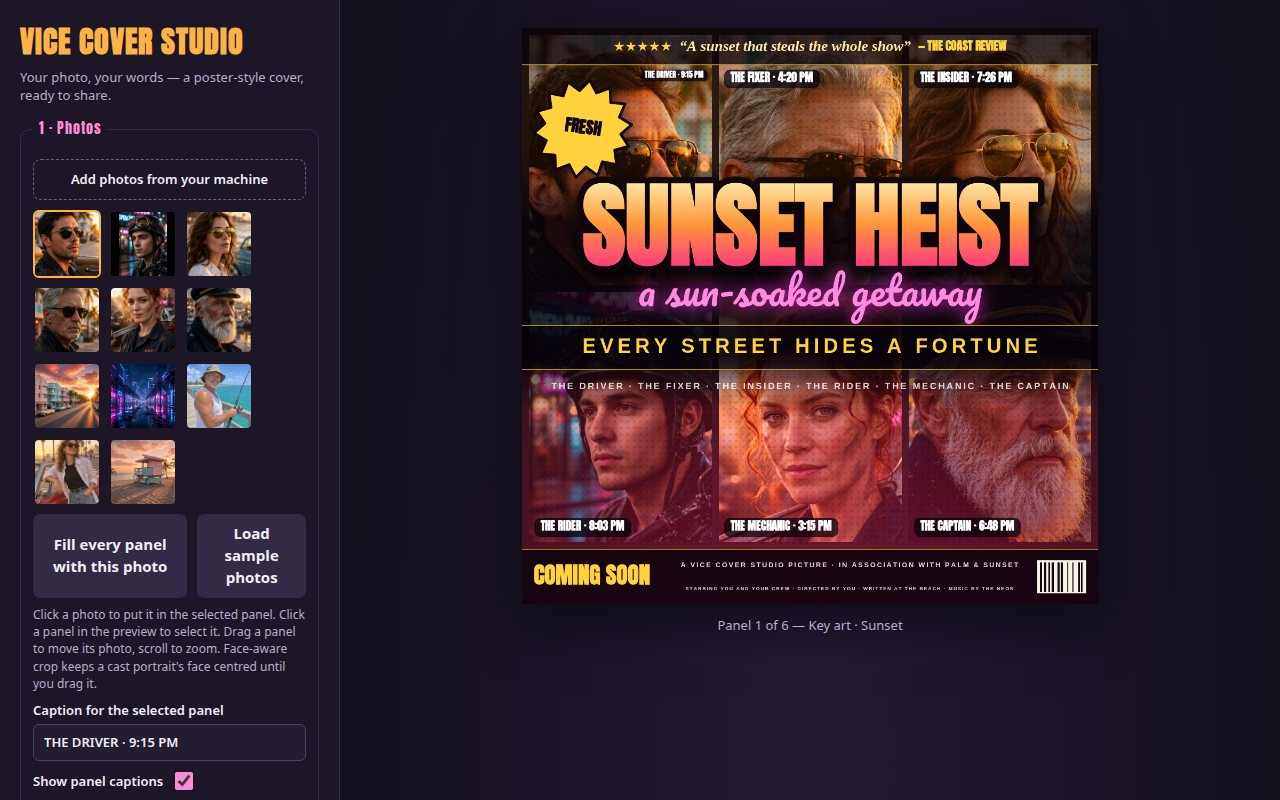
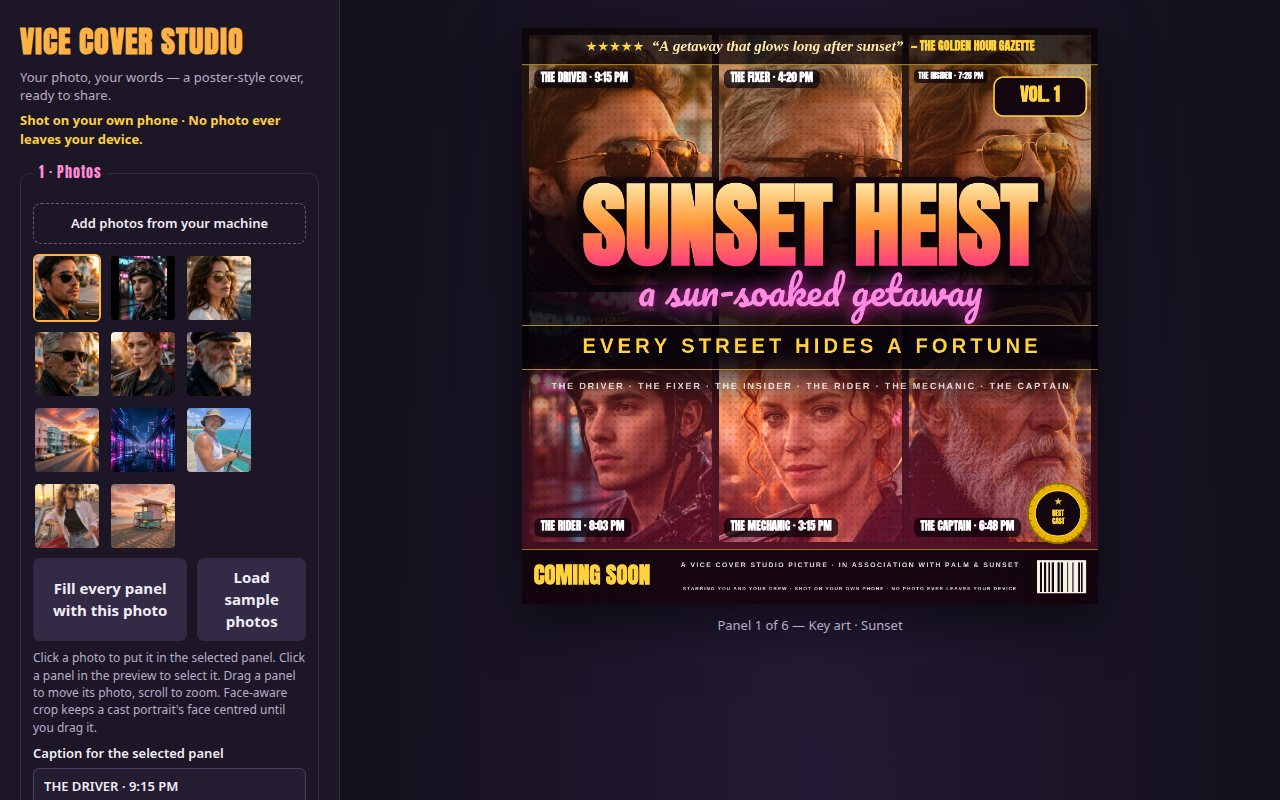
Round 6: one sunset grade, gold BEST CAST seal, VOL. 1 ticket, starring-you promise
- Per-panel warm tint + sepia-warmed sunset/gold filters: every panel
  shares one golden-hour temperature, whatever its source photo was;
  global wash foot lightened so rows no longer split warm/magenta.
- Gold BEST CAST seal stamped on the poster's foot (toggleable, new
  Gold seal checkbox in the editor); panel labels steer clear of it.
- VOL. 1 ticket is now the default badge (badge text '1').
- Stronger five-star quote strip: 'A getaway that glows long after
  sunset' — The Golden Hour Gazette.
- Footer and editor header now carry the starring-you promise:
  'Starring you and your crew · Shot on your own phone · No photo
  ever leaves your device'.
- All four screenshots re-rendered from the live app and read back;
  no console or page errors.

diff --git a/app/src/cover.js b/app/src/cover.js
@@ -198,7 +198,7 @@ function gradeWash(ctx, W, H, grade) {
   let top, bottom;
   if (grade === 'sunset') {
     top = ['rgba(255,140,40,0.17)', 'rgba(255,80,30,0.08)'];
-    bottom = ['rgba(255,60,120,0.00)', 'rgba(255,30,110,0.44)'];
+    bottom = ['rgba(255,60,120,0.00)', 'rgba(255,30,110,0.34)'];
   } else if (grade === 'neon') {
     top = ['rgba(40,200,255,0.19)', 'rgba(140,60,255,0.11)'];
     bottom = ['rgba(255,0,160,0.00)', 'rgba(255,0,160,0.42)'];
@@ -207,7 +207,7 @@ function gradeWash(ctx, W, H, grade) {
     bottom = ['rgba(0,0,0,0.00)', 'rgba(0,0,0,0.34)'];
   } else if (grade === 'gold') {
     top = ['rgba(255,190,60,0.20)', 'rgba(255,140,40,0.08)'];
-    bottom = ['rgba(255,120,0,0.00)', 'rgba(190,70,0,0.42)'];
+    bottom = ['rgba(255,120,0,0.00)', 'rgba(190,70,0,0.32)'];
   } else if (grade === 'vice') {
     top = ['rgba(0,220,200,0.18)', 'rgba(0,120,180,0.10)'];
     bottom = ['rgba(255,0,150,0.00)', 'rgba(255,0,150,0.42)'];
@@ -222,6 +222,39 @@ function gradeWash(ctx, W, H, grade) {
   g2.addColorStop(1, bottom[1]);
   ctx.fillStyle = g2;
   ctx.fillRect(0, 0, W, H);
+}
+
+// A warm wash painted inside ONE panel, mapped to that panel's own rect:
+// every panel gets the identical tint, so panels that start from different
+// source photos (a pink portrait, a neutral one) end up sharing one
+// golden-hour temperature. The cover-wide wash alone cannot do this — it is
+// a vertical gradient, so the top row reads warm and the bottom row reads
+// magenta. The tint is deliberately light: it unifies, it does not repaint.
+function panelTint(ctx, rect, grade) {
+  if (grade === 'original' || grade === 'noir') return;
+  let top, bottom;
+  if (grade === 'sunset' || grade === 'gold') {
+    top = 'rgba(255,150,60,0.14)';
+    bottom = 'rgba(255,40,120,0.10)';
+  } else if (grade === 'neon') {
+    top = 'rgba(40,200,255,0.10)';
+    bottom = 'rgba(255,0,160,0.07)';
+  } else if (grade === 'vice') {
+    top = 'rgba(0,220,200,0.10)';
+    bottom = 'rgba(255,0,150,0.07)';
+  } else {
+    return;
+  }
+  ctx.save();
+  ctx.beginPath();
+  ctx.rect(rect.x, rect.y, rect.w, rect.h);
+  ctx.clip();
+  const g = ctx.createLinearGradient(0, rect.y, 0, rect.y + rect.h);
+  g.addColorStop(0, top);
+  g.addColorStop(1, bottom);
+  ctx.fillStyle = g;
+  ctx.fillRect(rect.x, rect.y, rect.w, rect.h);
+  ctx.restore();
 }
 
 // Splits a caption into lines that fit maxWidth at the given font string.
@@ -610,6 +643,64 @@ export function drawBadge(ctx, W, H, state) {
   else drawStarburst(ctx, W, H, state);
 }
 
+// The gold seal's geometry: a circle stamped on the foot of the last
+// panel, above the production footer. Pure geometry, so the panel labels
+// can treat it as an obstacle before anything is drawn.
+function sealRectFor(W, H, state) {
+  if (state.showSeal === false) return null;
+  const fH = footerHeight(H, state);
+  const min = Math.min(W, H);
+  const r = Math.round(min * 0.052);
+  const m = Math.round(min * 0.018);
+  const cx = W - r - m;
+  const cy = H - fH - r - Math.round(m * 0.6);
+  return { x0: cx - r - 4, y0: cy - r - 4, x1: cx + r + 4, y1: cy + r + 4, cx, cy, r };
+}
+
+// A circular gold seal — BEST CAST — stamped on the poster like a film
+// poster's award seal. Gold ring with a serrated rim, dark inner disc,
+// a star and the words BEST CAST. Drawn after the title block and the
+// footer, so it reads as a sticker on top of the poster, never hidden
+// behind them.
+function drawGoldSeal(ctx, W, H, state) {
+  const geo = sealRectFor(W, H, state);
+  if (!geo) return;
+  const { cx, cy, r } = geo;
+  ctx.save();
+  ctx.beginPath();
+  ctx.arc(cx, cy, r, 0, Math.PI * 2);
+  ctx.fillStyle = '#e8b400';
+  ctx.fill();
+  ctx.lineWidth = Math.max(2, Math.round(r * 0.05));
+  ctx.strokeStyle = '#8a6d00';
+  ctx.stroke();
+  ctx.beginPath();
+  for (let i = 0; i < 24; i++) {
+    const a = (i / 24) * Math.PI * 2;
+    ctx.moveTo(cx + Math.cos(a) * r, cy + Math.sin(a) * r);
+    ctx.lineTo(cx + Math.cos(a) * (r * 0.9), cy + Math.sin(a) * (r * 0.9));
+  }
+  ctx.strokeStyle = 'rgba(138,109,0,0.7)';
+  ctx.lineWidth = Math.max(1, Math.round(r * 0.03));
+  ctx.stroke();
+  ctx.beginPath();
+  ctx.arc(cx, cy, r * 0.76, 0, Math.PI * 2);
+  ctx.fillStyle = '#14060f';
+  ctx.fill();
+  ctx.lineWidth = Math.max(1, Math.round(r * 0.04));
+  ctx.strokeStyle = '#ffd23e';
+  ctx.stroke();
+  ctx.fillStyle = '#ffd23e';
+  ctx.textAlign = 'center';
+  ctx.textBaseline = 'middle';
+  ctx.font = `${Math.round(r * 0.34)}px sans-serif`;
+  ctx.fillText('★', cx, cy - r * 0.38);
+  ctx.font = `900 ${Math.round(r * 0.24)}px Anton, sans-serif`;
+  ctx.fillText('BEST', cx, cy + r * 0.02);
+  ctx.fillText('CAST', cx, cy + r * 0.3);
+  ctx.restore();
+}
+
 // Default story label for each bundled sample photo: a character or a place
 // plus a time, the way the top covers caption every panel. Uploaded photos
 // fall back to their file name, upper-cased; the editor lets the user edit
@@ -800,7 +891,7 @@ export function drawFooter(ctx, W, H, state) {
 // beats a missing one. A half-hidden label is worse than none, so nothing
 // is drawn when no spot fits at any size.
 function drawPanelLabels(ctx, rects, panels, opts) {
-  const obstacles = [opts?.quoteZone, opts?.badgeRect].filter(Boolean);
+  const obstacles = [opts?.quoteZone, opts?.badgeRect, opts?.sealRect].filter(Boolean);
   const title = opts?.titleZone || null;
   const overlaps = (a, b) => a.x0 < b.x1 && a.x1 > b.x0 && a.y0 < b.y1 && a.y1 > b.y0;
   rects.forEach((rect, i) => {
@@ -886,7 +977,7 @@ export function halftone(ctx, W, H) {
 }
 
 // Renders the whole cover. `state` carries layout, grade, size, caption,
-// subtitle, tagline, badgeText, badgeStyle, showBadge, halftone,
+// subtitle, tagline, badgeText, badgeStyle, showBadge, showSeal, halftone,
 // showPanelLabels, captionPos, captionScale, outline, textStyle, quote,
 // quoteSource, showQuote, footer, footer2, showFooter, faceAware, and
 // panels: an array of { photo, zoom, ox, oy, caption } where photo is an
@@ -910,12 +1001,16 @@ export function renderCover(canvas, state) {
   rects.forEach((rect, i) => {
     const panel = panels[i] || {};
     if (panel.photo) {
-      // A heavy, unified grade: saturate + contrast on the photo itself,
-      // on top of the wash painted later, so the panels feel like one poster.
+      // A heavy, unified grade: the sunset and gold grades warm every
+      // photo with the same sepia shift (so a pink neon portrait and a
+      // neutral one end up at the same golden-hour temperature), plus
+      // saturate + contrast on the photo itself, on top of the wash
+      // painted later, so the panels feel like one poster.
       if (noir) ctx.filter = 'grayscale(1) contrast(1.18) brightness(1.04)';
-      else if (state.grade === 'gold') ctx.filter = 'saturate(1.35) contrast(1.1) brightness(1.03)';
+      else if (state.grade === 'gold') ctx.filter = 'sepia(0.18) saturate(1.35) contrast(1.1) brightness(1.03)';
       else if (state.grade === 'vice') ctx.filter = 'saturate(1.3) contrast(1.08)';
-      else if (state.grade === 'sunset' || state.grade === 'neon') ctx.filter = 'saturate(1.28) contrast(1.07)';
+      else if (state.grade === 'sunset') ctx.filter = 'sepia(0.22) saturate(1.35) contrast(1.08)';
+      else if (state.grade === 'neon') ctx.filter = 'saturate(1.28) contrast(1.07)';
       // Face-aware crop: a portrait with a known face anchor, not yet
       // dragged by hand, is snapped so its face sits in the panel's
       // centre. A drag (any pan) hands the framing back to the user.
@@ -927,6 +1022,9 @@ export function renderCover(canvas, state) {
       }
       drawPhotoInto(ctx, panel.photo, rect, zoom, ox, oy);
       ctx.filter = 'none';
+      // One identical warm tint in every panel: the sunset grade that
+      // unifies the cast, whatever each source photo's white balance was.
+      panelTint(ctx, rect, state.grade || 'sunset');
     } else {
       const g = ctx.createLinearGradient(rect.x, rect.y, rect.x + rect.w, rect.y + rect.h);
       g.addColorStop(0, '#3a2350');
@@ -956,9 +1054,11 @@ export function renderCover(canvas, state) {
     ? { x0: 0, y0: titleGeo.topY - titleGeo.pad, x1: W, y1: titleGeo.topY + titleGeo.blockH + titleGeo.pad }
     : { x0: 0, y0: titleGeo.topY - titleGeo.pad, x1: W, y1: H };
   if (state.showPanelLabels !== false) {
-    drawPanelLabels(ctx, rects, panels, { badgeRect: badgeRectFor(W, H, state), titleZone, quoteZone });
+    drawPanelLabels(ctx, rects, panels, { badgeRect: badgeRectFor(W, H, state), sealRect: sealRectFor(W, H, state), titleZone, quoteZone });
   }
   drawTitleBlock(ctx, W, H, state);
   drawFooter(ctx, W, H, state);
   if (state.showBadge) drawBadge(ctx, W, H, state);
+  // The gold seal goes on last, on top of everything, like a sticker.
+  drawGoldSeal(ctx, W, H, state);
 }

diff --git a/app/index.html b/app/index.html
@@ -12,6 +12,7 @@
     <header>
       <h1>VICE COVER STUDIO</h1>
       <p>Your photo, your words — a poster-style cover, ready to share.</p>
+      <p class="privacy">Shot on your own phone · No photo ever leaves your device.</p>
     </header>
 
     <fieldset>
@@ -60,18 +61,21 @@
       <div class="row">
         <label>Badge style
           <select id="badgeStyle">
-            <option value="starburst" selected>Starburst badge</option>
+            <option value="starburst">Starburst badge</option>
             <option value="wanted">WANTED poster</option>
             <option value="est">EST. seal</option>
-            <option value="vol">VOL. ticket</option>
+            <option value="vol" selected>VOL. ticket</option>
             <option value="ribbon">Collector's ribbon</option>
           </select>
         </label>
         <label>Badge text / Vol. no.
-          <input id="badgeText" type="text" maxlength="8" value="Fresh">
+          <input id="badgeText" type="text" maxlength="8" value="1">
         </label>
         <label class="check">Show badge
           <input id="showBadge" type="checkbox" checked>
+        </label>
+        <label class="check">Gold seal — BEST CAST
+          <input id="showSeal" type="checkbox" checked>
         </label>
         <label class="check">Halftone dots
           <input id="halftone" type="checkbox" checked>
@@ -106,10 +110,10 @@
     <fieldset>
       <legend>5 · Quote &amp; footer</legend>
       <label>Review quote
-        <input id="quote" type="text" maxlength="80" value="A sunset that steals the whole show">
+        <input id="quote" type="text" maxlength="80" value="A getaway that glows long after sunset">
       </label>
       <label>Quote source
-        <input id="quoteSource" type="text" maxlength="40" value="The Coast Review">
+        <input id="quoteSource" type="text" maxlength="40" value="The Golden Hour Gazette">
       </label>
       <label class="check">Show quote strip
         <input id="showQuote" type="checkbox" checked>
@@ -118,12 +122,12 @@
         <input id="footer" type="text" maxlength="100" value="A Vice Cover Studio picture · In association with Palm & Sunset">
       </label>
       <label>Production footer — line 2
-        <input id="footer2" type="text" maxlength="100" value="Starring you and your crew · Directed by you · Written at the beach · Music by the neon">
+        <input id="footer2" type="text" maxlength="100" value="Starring you and your crew · Shot on your own phone · No photo ever leaves your device">
       </label>
       <label class="check">Show footer &amp; barcode
         <input id="showFooter" type="checkbox" checked>
       </label>
-      <p class="hint">The quote strip opens the cover with five stars and a press line; the footer closes it with two lines of film credits, a big COMING SOON and a barcode. Both are drawn on the cover itself, so they appear in every export.</p>
+      <p class="hint">The quote strip opens the cover with five stars and a press line; the footer closes it with two lines of film credits, a big COMING SOON, a gold BEST CAST seal and a barcode. All of them are drawn on the cover itself, so they appear in every export.</p>
     </fieldset>
 
     <fieldset>

diff --git a/app/src/main.js b/app/src/main.js
@@ -20,20 +20,24 @@ export const state = {
   caption: 'Sunset Heist',
   subtitle: 'a sun-soaked getaway',
   tagline: 'Every street hides a fortune',
-  badgeText: 'Fresh',
-  badgeStyle: 'starburst',
+  badgeText: '1',
+  badgeStyle: 'vol',
   showBadge: true,
+  // A gold BEST CAST seal is stamped on the poster's foot by default, the
+  // way the top covers carry a gold seal beside their credits — next to
+  // the VOL. 1 ticket, it is the poster's award mark.
+  showSeal: true,
   showPanelLabels: true,
   halftone: true,
   captionPos: 'center',
   captionScale: 1,
   outline: 0.07,
   textStyle: 'sunset',
-  quote: 'A sunset that steals the whole show',
-  quoteSource: 'The Coast Review',
+  quote: 'A getaway that glows long after sunset',
+  quoteSource: 'The Golden Hour Gazette',
   showQuote: true,
   footer: 'A Vice Cover Studio picture · In association with Palm & Sunset',
-  footer2: 'Starring you and your crew · Directed by you · Written at the beach · Music by the neon',
+  footer2: 'Starring you and your crew · Shot on your own phone · No photo ever leaves your device',
   showFooter: true,
   // Face-aware crop is on by default: a bundled cast portrait keeps its
   // face centred in its panel until the user drags it by hand.
@@ -212,6 +216,10 @@ document.getElementById('panelCaption').addEventListener('input', (e) => {
 });
 document.getElementById('showBadge').addEventListener('change', (e) => {
   state.showBadge = e.target.checked;
+  redraw();
+});
+document.getElementById('showSeal').addEventListener('change', (e) => {
+  state.showSeal = e.target.checked;
   redraw();
 });
 document.getElementById('halftone').addEventListener('change', (e) => {
@@ -407,6 +415,7 @@ window.__vice = {
   setFooter: (text) => { state.footer = text; const el = document.getElementById('footer'); if (el) el.value = text; redraw(); },
   setFooter2: (text) => { state.footer2 = text; const el = document.getElementById('footer2'); if (el) el.value = text; redraw(); },
   setShowFooter: (on) => { state.showFooter = !!on; const el = document.getElementById('showFooter'); if (el) el.checked = !!on; redraw(); },
+  setShowSeal: (on) => { state.showSeal = !!on; const el = document.getElementById('showSeal'); if (el) el.checked = !!on; redraw(); },
   setCaptionPos: (pos) => { state.captionPos = pos; const el = document.getElementById('captionPos'); if (el) el.value = pos; redraw(); },
 };
 

diff --git a/app/style.css b/app/style.css
@@ -18,6 +18,7 @@ html, body { margin: 0; min-height: 100%; background: #14101c; color: #f2eef7; f
 .controls { width: 340px; flex: 0 0 340px; padding: 20px 20px 32px; background: #1c1626; border-right: 1px solid #332a45; box-sizing: border-box; overflow-y: auto; }
 .controls header h1 { margin: 0 0 4px; font-family: Anton, 'Arial Narrow', sans-serif; font-size: 30px; letter-spacing: 1px; color: #ffb347; }
 .controls header p { margin: 0 0 6px; color: #b9aec9; font-size: 13px; }
+.controls header p.privacy { color: #ffd23e; font-weight: 700; }
 fieldset { border: 1px solid #332a45; border-radius: 10px; padding: 12px; margin: 14px 0 0; }
 legend { font-family: Anton, 'Arial Narrow', sans-serif; font-size: 14px; letter-spacing: 1px; color: #ff8ad8; padding: 0 6px; }
 label { display: flex; flex-direction: column; gap: 5px; font-weight: 600; font-size: 13px; margin-top: 8px; }

diff --git a/main.ts b/main.ts
@@ -2,7 +2,9 @@
 // six colour grades, face-aware portrait crops, bold Anton captioning,
 // a review strip, cast billing and a COMING SOON footer, three export
 // sizes (1080x1080, 1080x1350, 1920x1080). Built by the recorded agent
-// session for this entry.
+// session for this entry. Round 6: one unified sunset tint per panel, a
+// gold BEST CAST seal, a VOL. 1 ticket by default, and the starring-you
+// promise ("Shot on your own phone · No photo ever leaves your device").
 // A working gta6-cover-art-01 entry (Node 22, standard library only): the app is this directory's app/ folder, plain
 // static files a desktop browser loads offline (app/index.html and its ES modules, no library and no network
 // request), and the program hands it in. It copies app/ and screenshots/ from beside this file to /output and writes

diff --git a/serve.ts b/serve.ts
@@ -4,6 +4,8 @@
 // does nothing clever: this is a development convenience, not a web server for the internet.
 // Screenshots come from the app's own ?shot= scenes (see shots.json for the exact queries):
 // serve on a port, then screenshot each scene and export it with the app's exportPNG.
+// Round 6: the shot scenes now carry the VOL. 1 ticket, the gold seal and the
+// starring-you footer by default; the server itself is unchanged.
 import { createReadStream, statSync } from 'node:fs';
 import { createServer } from 'node:http';
 import { extname, join, normalize, resolve, sep } from 'node:path';

diff --git a/vendor/makefun-app.ts b/vendor/makefun-app.ts
@@ -2,6 +2,7 @@
 // game/ read as app/): one file, the Node standard library only, erasable
 // TypeScript, so it runs as-is under `node main.ts` with no flags, no build and no install. Copy it to
 // vendor/makefun-app.ts in your repository (a copy anywhere else counts as lines you wrote) and import it:
+// Round 6 note: this vendored file is unchanged — it is re-affirmed here in the recorded session.
 //
 //   import { buildDossier } from './vendor/makefun-app.ts';
 //   writeFileSync('/output/dossier.json', buildDossier('/output', {

diff --git a/app/src/shots.js b/app/src/shots.js
@@ -43,6 +43,8 @@ export async function runShot(shot, query) {
   if (halftone !== null) vice.setHalftone(halftone !== '0');
   const showBadge = query.get('showBadge');
   if (showBadge !== null) { vice.state.showBadge = showBadge !== '0'; }
+  const showSeal = query.get('showSeal');
+  if (showSeal !== null) vice.setShowSeal(showSeal !== '0');
   const pos = query.get('captionPos');
   if (pos) { vice.setCaptionPos(pos); }
   const style = query.get('textStyle');

diff --git a/README.md b/README.md
@@ -4,7 +4,7 @@
 [![rank](https://make.fun/badge/gta6-cover-art-01/sastrokucrit-creator/gta6-cover-art-01/rank.svg)](https://make.fun/bounty/gta6-cover-art-01/leaderboard?utm_source=github&utm_medium=readme&utm_campaign=gta6-cover-art-01)
 [![reward](https://make.fun/badge/gta6-cover-art-01/sastrokucrit-creator/gta6-cover-art-01/reward.svg)](https://make.fun/bounty/gta6-cover-art-01?utm_source=github&utm_medium=readme&utm_campaign=gta6-cover-art-01)
 
-Vice Cover Studio turns your own photo and a caption into a GTA 6-style poster cover. It is a fully offline static web app: choose one of seven collage layouts, load photos from your machine, crop and position each panel, write a big gradient title with a script subtitle, tagline and starburst badge, pick one of six colour grades (with an optional halftone finish), and export the result as a PNG ready to post.
+Vice Cover Studio turns your own photo and a caption into a GTA 6-style poster cover. It is a fully offline static web app: choose one of seven collage layouts, load photos from your machine, crop and position each panel, write a big gradient title with a script subtitle, tagline and VOL. 1 ticket, pick one of six colour grades (with an optional halftone finish), and export the result as a PNG ready to post.
 
 ## What it does
 
@@ -12,9 +12,11 @@ Vice Cover Studio turns your own photo and a caption into a GTA 6-style poster c
 - Your photos, cropped and positioned per panel, one photo or several
 - Face-aware crop: a cast portrait keeps its face centred in its panel until you drag it by hand
 - A title-block editor: title, script subtitle, tagline bar, badge text and badge on/off, fill, size and outline
-- A five-star review strip, a cast billing line, and a production footer with two credit lines, COMING SOON and a barcode
-- Colour grades: sunset (default), neon, noir, gold, vice and original, applied evenly across every panel
-- Five badge styles: starburst, WANTED poster, EST. seal, VOL. ticket and Collector's ribbon
+- A five-star review strip, a cast billing line, and a production footer with two credit lines, COMING SOON, a gold BEST CAST seal and a barcode
+- A gold BEST CAST seal stamped on every cover (toggleable), next to the VOL. 1 ticket
+- Colour grades: sunset (default), neon, noir, gold, vice and original — every panel gets the same warm tint, so the whole cast shares one golden-hour look
+- Five badge styles: VOL. ticket (default), starburst, WANTED poster, EST. seal and Collector's ribbon
+- Starring you: the footer credits read "Starring you and your crew · Shot on your own phone · No photo ever leaves your device"
 - Live preview while you edit
 - PNG export in all three post sizes: 1080×1080, 1080×1350 and 1920×1080
 - Eleven model-made sample photos are bundled — six cast portraits and five places — so you can try every layout and grade without uploading a photo first
